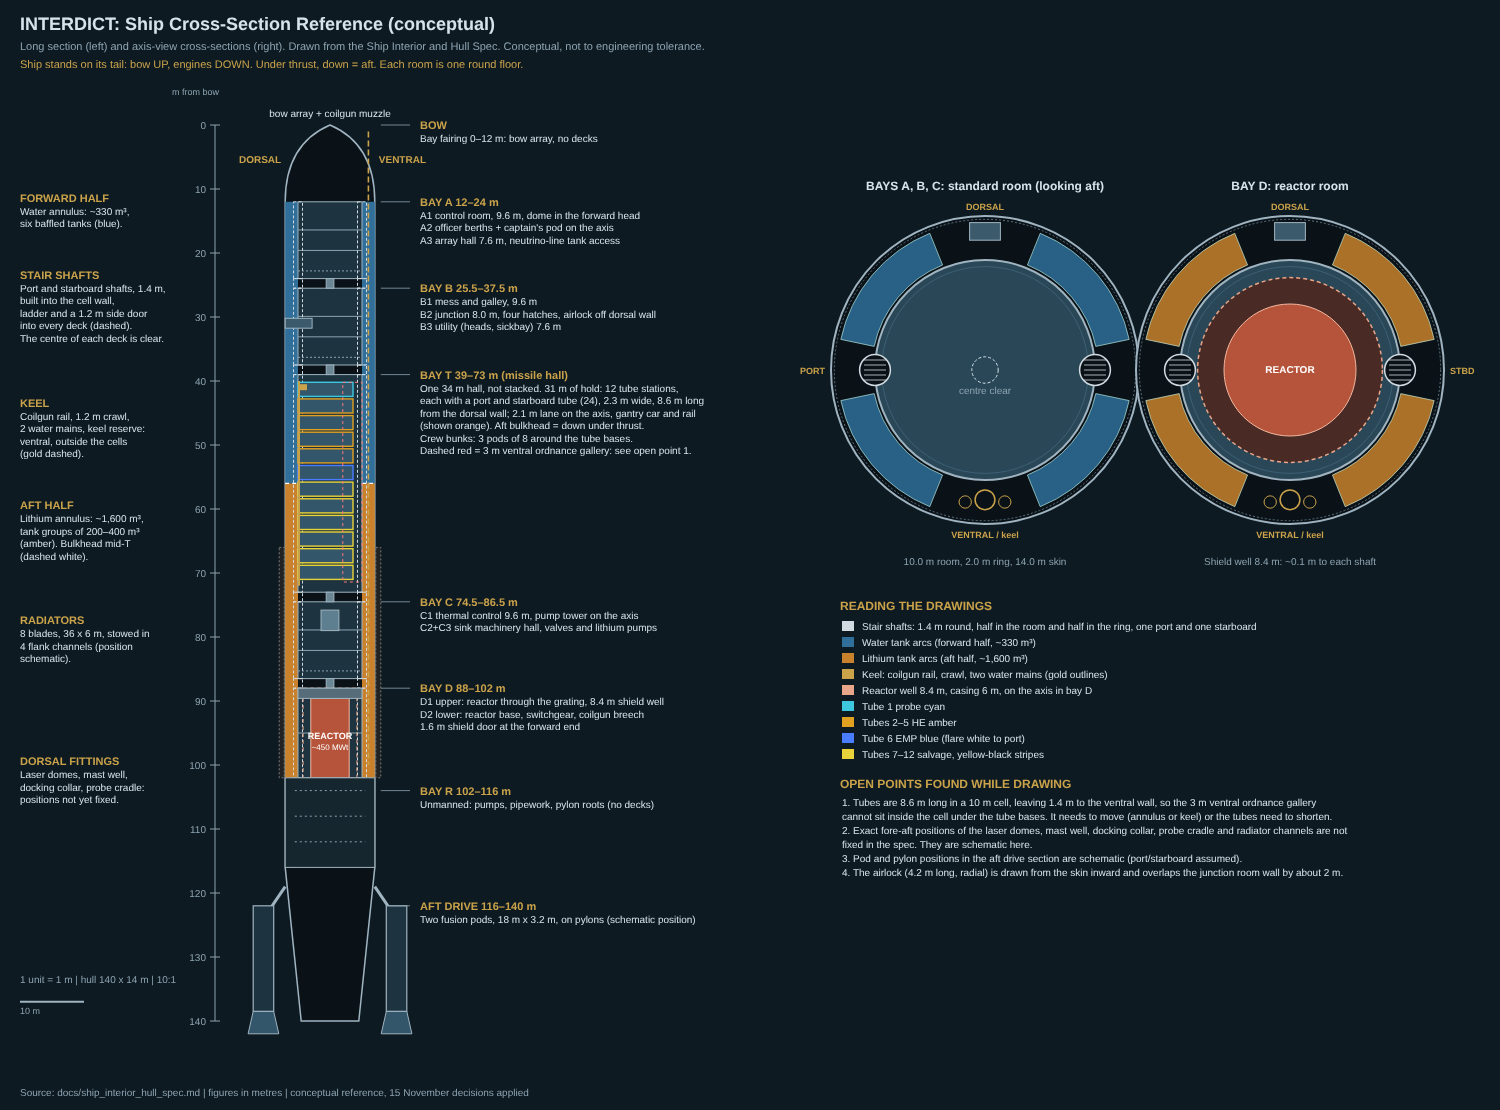
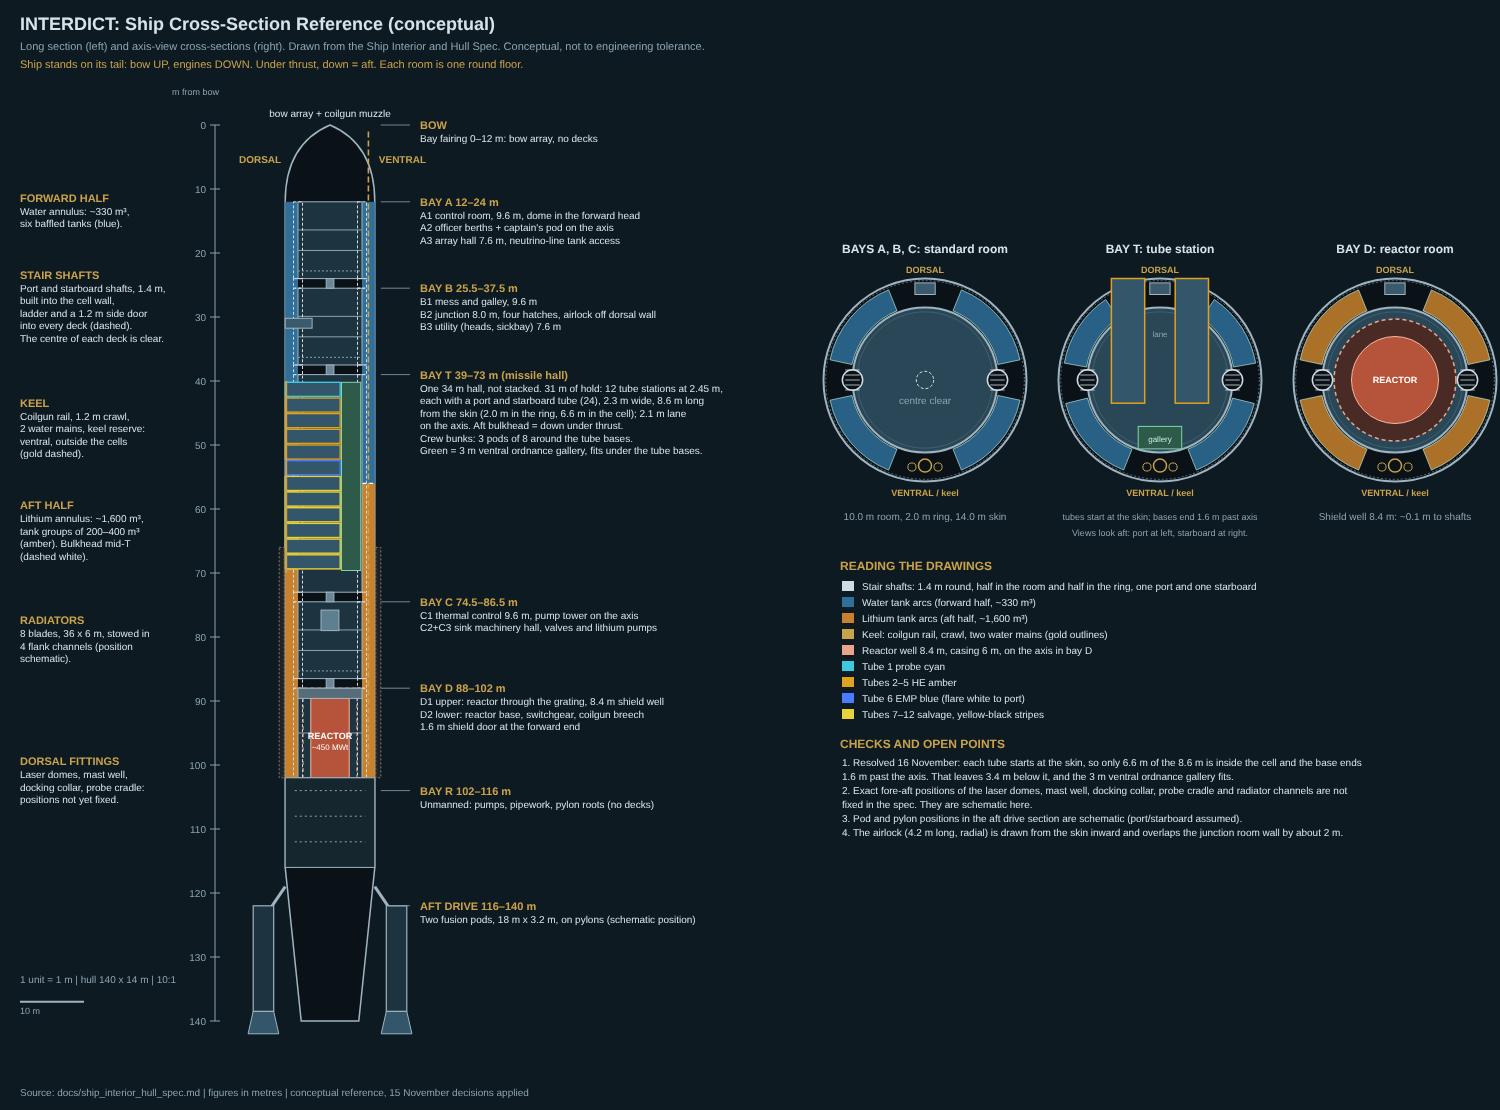
Resolve tube/gallery geometry: tubes start at the skin (2.0 m in ring, 6.6 m in cell); fix cross-section, add bay T view
Claude-Session: https://claude.ai/code/session_015PRSzR8Wnn9zCSxfKuTdYo

Changed region(s): [[0.5213, 0.1532, 1.0, 0.7964], [0.276, 0.3676, 0.46, 0.4288], [0.184, 0.3369, 0.2453, 0.5207]]

diff --git a/docs/ship_interior_hull_spec.md b/docs/ship_interior_hull_spec.md
@@ -94,7 +94,7 @@ In bay D the reactor stands on the axis and the two decks are taller to hold it 
 
 **Where the dome and keel went.** The first draft had four levels in each capsule: a dome above and a keel below. Neither is a level now. The dorsal gear that lived in the dome (airlock, mast well, laser terminals, gantries) sits in a side chamber and in dorsal wall niches. The keel is a line along the ventral side, outside the cells: the coilgun rail, the 1.2 m crawl, the two water mains and the keel reserve run there.
 
-**The missile bay (T).** T is the one cell that is not a stack of pucks. It is a single 34 m drum, like the Ohio's missile compartment, because the tubes (2.3 m across, 8.6 m long) stand radially across it in two dorsal rows. Under thrust "down" is its aft bulkhead, so the hold is a 31 m shaft: the crew climb it or ride the gantry car, and the racks carry brace straps. At coast it is a long hall, and the ventral ordnance gallery is its walking strip.
+**The missile bay (T).** T is the one cell that is not a stack of pucks. It is a single 34 m drum, like the Ohio's missile compartment, because the tubes (2.3 m across, 8.6 m long) stand radially across it in two dorsal rows. Under thrust "down" is its aft bulkhead, so the hold is a 31 m shaft: the crew climb it or ride the gantry car, and the racks carry brace straps. At coast it is a long hall, and the ventral ordnance gallery is its walking strip. Tube geometry (checked 16 November): each cap sits flush on the dorsal skin line, so the first 2.0 m of the 8.6 m tube runs through the ring and only 6.6 m is inside the 10 m cell. The tube base ends 1.6 m past the axis, which leaves 3.4 m to the ventral wall, enough for the 3 m ordnance gallery.
 
 **Drawing note (for reference images).** In a long section (side view), draw each bay as a short round-section drum with its rooms as flat discs stacked bow to stern, each disc's floor on its aft side, and a ladder shaft running down each side wall along the ship's length (one port, one starboard); the centres of the discs are clear. In a cross-section (looking down the axis), draw one round room, a single disc 10 m across, with its centre clear, a round shaft built into the wall on the port side and another on the starboard side, and the 2 m ring of tanks round it. Never draw horizontal decks running the length of the ship, and never stack levels across the 14 m beam (no dome on top, no keel below). The missile bay is the exception: a long hall with two rows of tubes standing across it.
 
@@ -102,6 +102,7 @@ In bay D the reactor stands on the axis and the two decks are taller to hold it 
 
 - **Forward half (bays A, B, front of T):** the water tanks (about 330 m³ in six baffled tanks, see Water and fuel stores), air and stores, plus cable ways. Water is cheap radiation and micrometeoroid shielding, and it keeps the neutrino-line detector tank (Castellan's reactor channel) next to the sensor array. It must never touch lithium, which is why the two zones are separated by a bulkhead mid-way along the missile bay.
 - **Aft half (rear of T, C, D, R):** liquid lithium, about 1,600 m³ in tank groups of 200 to 400 m³. See the heat sink section.
+- **Bay T's dorsal band.** In bay T the 12 tube sleeves cross the ring, two rows 4.4 m apart, so about 60 degrees of the ring on the dorsal side is given to the sleeves and cable ways. Tank arcs there are flank arcs only, roughly a sixth less tank volume than in a bare bay.
 - **Groups are arcs.** A tank group is a half-ring or a flank arc of the ring, and a damage zone of its own. The ring holds about 75 m³ per metre of ship, so a 250 m³ group fills about half of a half-ring round a 12 m bay; the rest is frames, insulation, pipework and crawl space.
 - **Between tank and skin:** a 0.15 m vacuum gap and multilayer insulation, so the outer skin stays near background temperature while the lithium behind it is at 450 to 950 K. A damaged seam shows as a hot stripe on the hull.
 
@@ -141,7 +142,7 @@ The ship carries 24 tubes in two dorsal rows, standing radially across the missi
 
 **The missile.** 0.46 m across, 4.6 m long, about 550 kg (target). Six sit on a 1.24 m pitch circle around a 0.6 m handling hub, forming a revolver drum 1.95 m across and about 4.5 t loaded.
 
-**The tube.** 2.3 m outside diameter, 8.6 m long, standing radially across the hold (dorsal to ventral): 4.6 m of missile, 1.2 m of hub and indexing motor, 1.2 m of ejector plenum, 1.6 m of seal, gas generator and cap. The cap sits flush in the tube deck on the dorsal line, and the tube reaches inward to a base housing near the hold's axis, spanning the hold as an Ohio tube spans three decks. Tubes are 2.45 m apart along a row (29.4 m for twelve) and the rows are 4.4 m apart, which leaves a 2.1 m lane between them under an overhead gantry.
+**The tube.** 2.3 m outside diameter, 8.6 m long, standing radially across the hold (dorsal to ventral): 4.6 m of missile, 1.2 m of hub and indexing motor, 1.2 m of ejector plenum, 1.6 m of seal, gas generator and cap. The cap sits flush in the tube deck on the dorsal line, and the tube reaches inward to a base housing near the hold's axis, spanning the hold as an Ohio tube spans three decks. Of the 8.6 m, 2.0 m lies in the ring and 6.6 m in the cell, so the base stops 1.6 m past the axis, with 3.4 m clear to the ventral wall (the ordnance gallery needs 3.0 m). Tubes are 2.45 m apart along a row (29.4 m for twelve) and the rows are 4.4 m apart, which leaves a 2.1 m lane between them under an overhead gantry.
 
 **Assignment** (tubes numbered 1 to 12 from the bow in each row):
 
@@ -420,6 +421,7 @@ Each sealed cell is a damage zone, so the damage control screen can draw seven c
 - All hulls are black, ours and every other ship's. Colour is used only as cue marks: maker bands, tube-load rings and hazard stripes (see Finish and colour cues).
 - Drive thrust: keep 0.15 g at 100 percent, stated in the fiction as a lost-technology yard pod. The speed rungs stay as they are.
 - Propellant: water as reaction mass, held in forward tanks (250 t of drive water, a 20 t crew reserve and a 60 m³ settling tank), plus fuel cassettes (deuterium and helium-3, a magazine of 8) as the fusion fuel. Both are common enough to find or buy and scarce enough to force salvage. Water sets how far the ship goes; cassettes set how long its pods run and whether it can jump.
+- Tube geometry (16 November): tube caps sit flush on the dorsal skin, so each 8.6 m tube has 2.0 m in the ring and 6.6 m in the cell, ending 1.6 m past the axis; the 3 m ventral ordnance gallery fits in the 3.4 m below the bases. Tube pitch is 2.45 m (29.4 m for twelve).
 - Complement: about 75 designed, five or six working.
 - Star Wolf specifications: set aside for now.
 
@@ -428,7 +430,7 @@ Each sealed cell is a damage zone, so the damage control screen can draw seven c
 1. **Settling step.** Should the planner add a 30 second creep-thrust settling step before each burn that follows a flip or a long coast, or leave it as flavour?
 2. **Cassette scarcity.** A magazine of 8, one cassette per jump and one per 21 minutes of flat-out drive. Is that the right pressure? Prices and rarity come in the economy pass.
 3. **Burning the reserve.** How costly should the guarded BURN RESERVE valve be: about 140 m/s of delta-v for weeks of life-support margin, as now?
-4. **Bay T as a long hall.** The missile bay is one 34 m drum with the tube rows standing across it, not a stack of pucks, because the tubes are 8.6 m long. Under thrust it is a 31 m shaft. Accept the long hall, or redesign the tubes?
+4. **Bay T as a long hall.** The missile bay is one 34 m drum with the tube rows standing across it, not a stack of pucks, because the tubes are 8.6 m long. Under thrust it is a 31 m shaft. Accept the long hall, or redesign the tubes? (The tube-versus-gallery fit was checked on 16 November and works: see the tube paragraph.)
 5. **Cue colours.** Are the maker hues (Orrin teal, Vask red, Halden ochre, ours bone white), the tube-load rings and brass-on-ours the right set? Vask red may clash with the scope's red-means-hostile, so it may need to be a darker maroon.
 6. **Control-room ceiling.** Bay A's forward head is a 2.0 m dome so the CIC keeps its 3.0 to 5.0 m ceiling; confirm against the 3D room.
 7. **Where the shafts meet the tanks.** Decided (15 November): two wall-built stair shafts, port and starboard, replace the central trunk. Each takes about 0.7 m of a room's rim and about 0.7 m of the annulus, so at layout they must be fitted between the tank arcs and the four stowed radiator channels.
